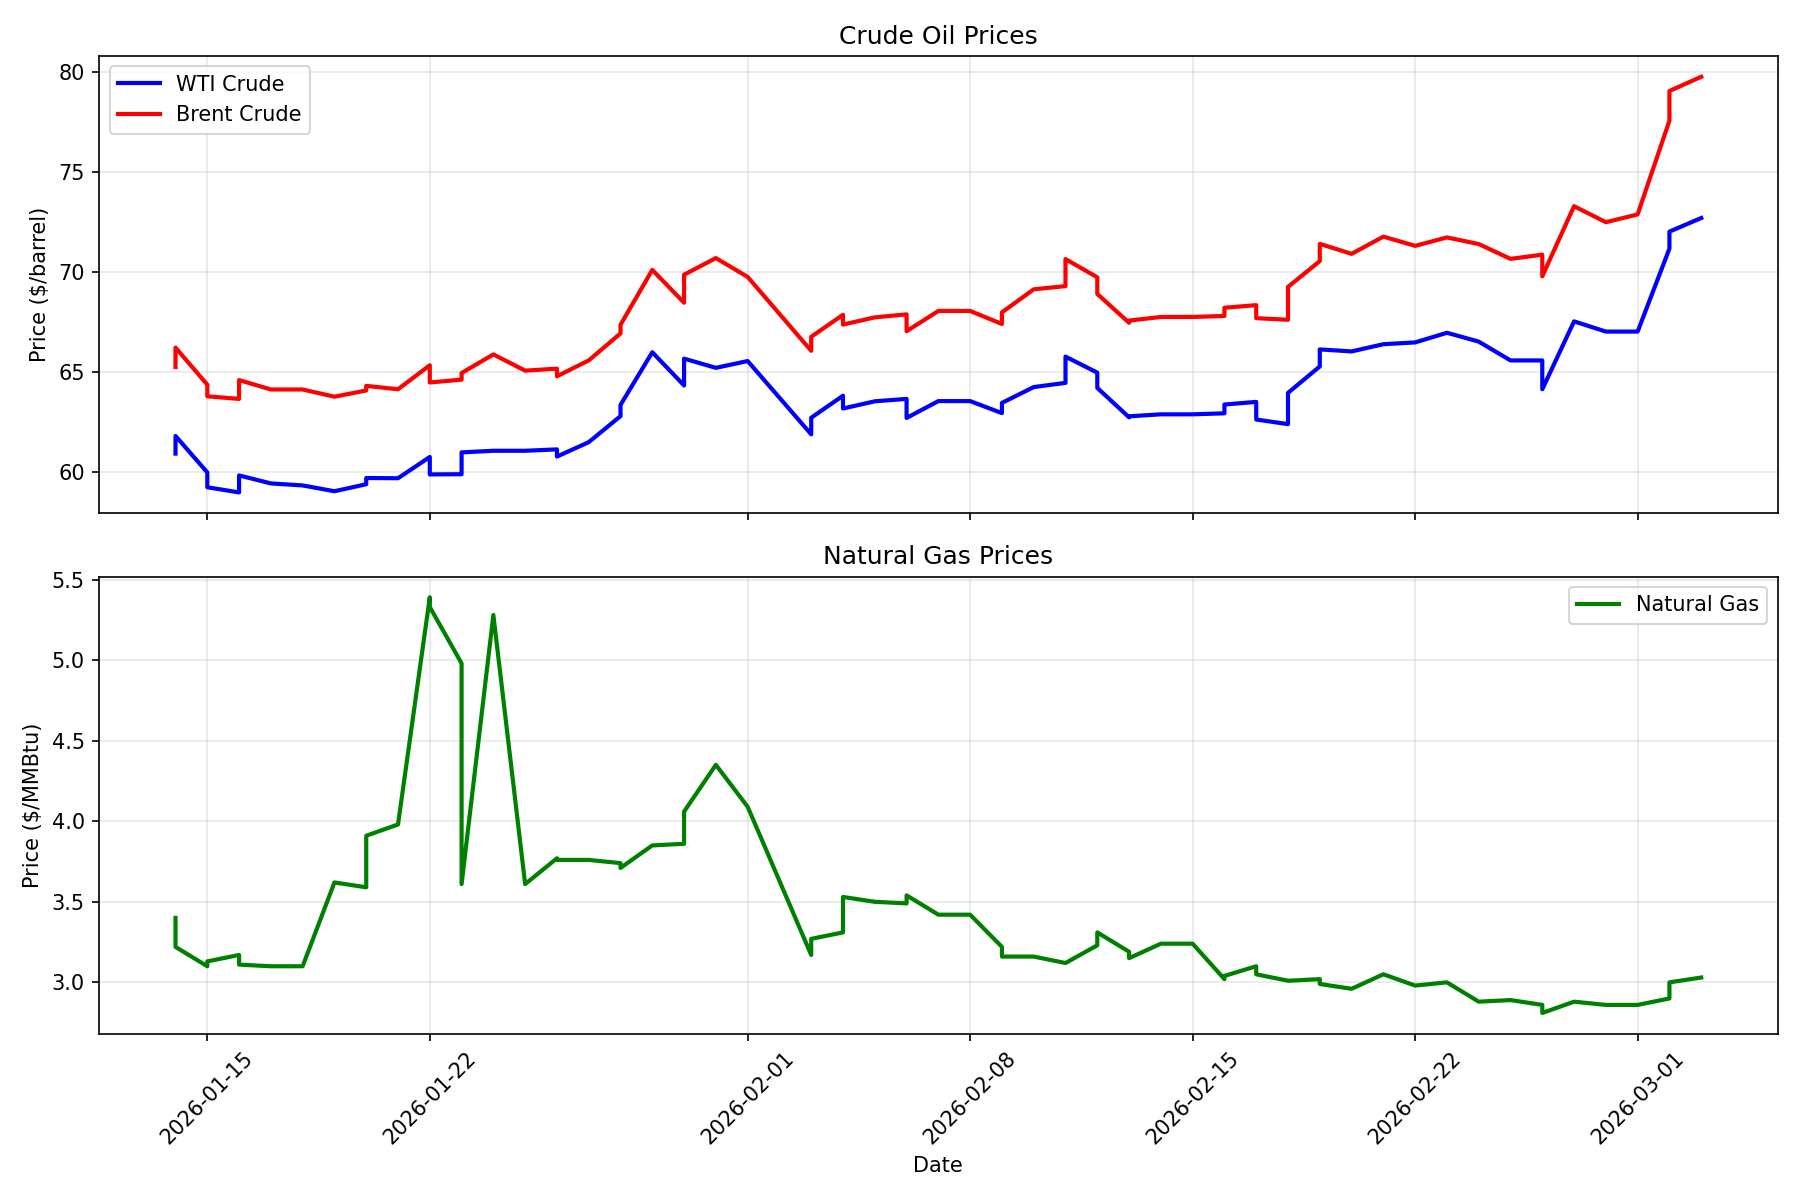
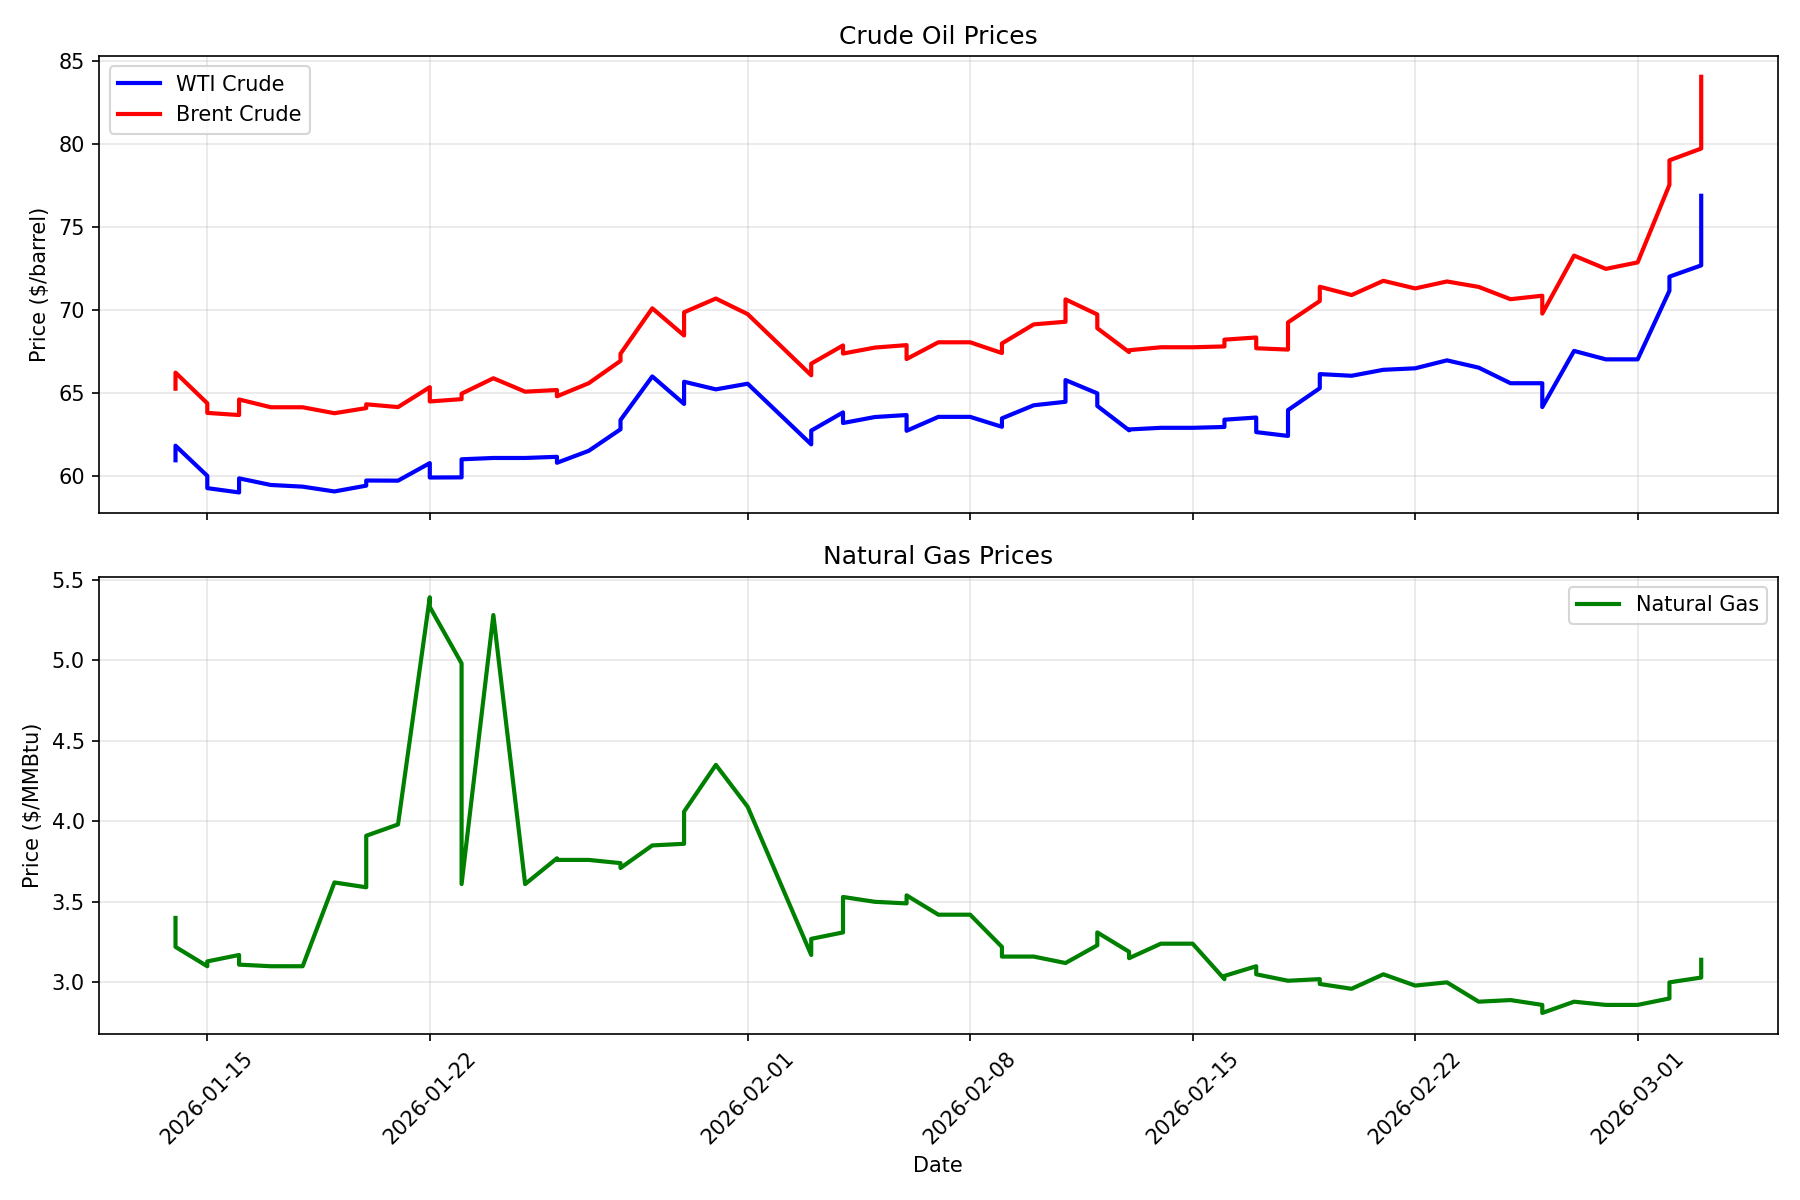
Daily price update: 2026-03-03

diff --git a/README.md b/README.md
@@ -8,10 +8,10 @@ Automated daily tracking of chemical commodity prices and chemical company stock
 
 | Commodity | Price | Change (24h) | Unit |
 |-----------|-------|--------------|------|
-| WTI Crude Oil | $72.69 | +0.00 (+0.00%) | $/barrel |
-| Brent Crude Oil | $79.74 | +0.00 (+0.00%) | $/barrel |
-| Natural Gas | $3.03 | +0.00 (+0.00%) | $/MMBtu |
-| Heating Oil | $2.76 | +0.00 (+0.00%) | $/gallon |
+| WTI Crude Oil | $76.89 | +5.66 (+7.95%) | $/barrel |
+| Brent Crude Oil | $84.07 | +6.33 (+8.14%) | $/barrel |
+| Natural Gas | $3.14 | +0.18 (+5.98%) | $/MMBtu |
+| Heating Oil | $2.94 | +0.04 (+1.50%) | $/gallon |
 
 ### Chemical Company Stocks
 

diff --git a/logs/update_log.md b/logs/update_log.md
@@ -91,3 +91,4 @@ Daily updates to the chemical engineering data repository.
 - **2026-03-02 00:00:03**: Updated 4 energy prices, 8 stocks, 0 FRED series
 - **2026-03-02 14:14:40**: Updated 4 energy prices, 8 stocks, 0 FRED series
 - **2026-03-03 00:00:05**: Updated 4 energy prices, 8 stocks, 0 FRED series
+- **2026-03-03 14:14:01**: Updated 4 energy prices, 8 stocks, 0 FRED series
